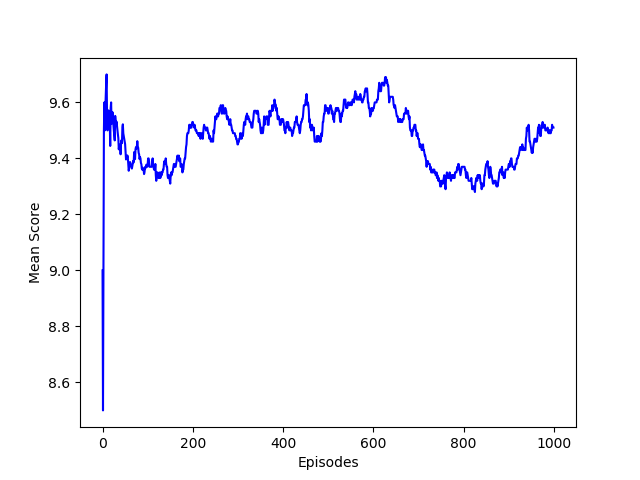
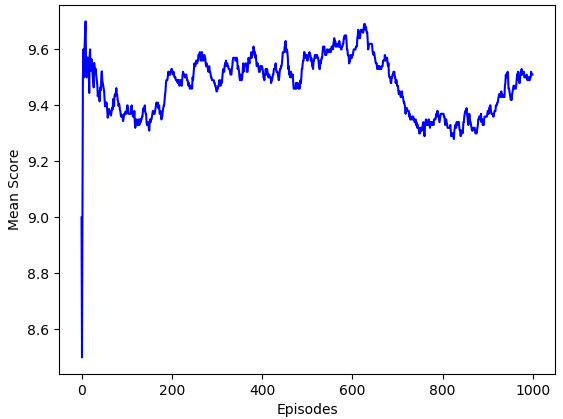
Modified images

Changed region(s): [[0.0, 0.0621, 0.9663, 0.9928], [0.0302, 0.0931, 0.0906, 0.1241], [0.9663, 0.8687, 0.9964, 0.8998]]

diff --git a/Lab2/cartpole/cartpole_dqn_dani.py b/Lab2/cartpole/cartpole_dqn_dani.py
@@ -15,7 +15,7 @@ EPISODES = 1000 #Maximum number of episodes
 class DQNAgent:
     #Constructor for the agent (invoked when DQN is first called in main)
     def __init__(self, state_size, action_size):
-        self.check_solve = True	#If True, stop if you satisfy solution confition
+        self.check_solve = False	#If True, stop if you satisfy solution confition
         self.render = False        #If you want to see Cartpole learning, then change to True
 
         #Get size of state and action
@@ -25,13 +25,13 @@ class DQNAgent:
 ################################################################################
 ################################################################################
         #Set hyper parameters for the DQN. Do not adjust those labeled as Fixed.
-        self.discount_factor = 0.95
+        self.discount_factor = 0.999
         self.learning_rate = 0.005
         self.epsilon = 0.02 #Fixed
         self.batch_size = 32 #Fixed
         self.memory_size = 1000
         self.train_start = 1000 #Fixed
-        self.target_update_frequency = 10
+        self.target_update_frequency = 1
 ################################################################################
 ################################################################################
 
@@ -234,4 +234,4 @@ if __name__ == "__main__":
     pylab.plot(episodes, mean_scores, 'b')
     pylab.xlabel("Episodes")
     pylab.ylabel("Mean Score")
-    pylab.savefig("mean_score_10_update .png")
+    pylab.savefig("mean_score_discount_999.png")
